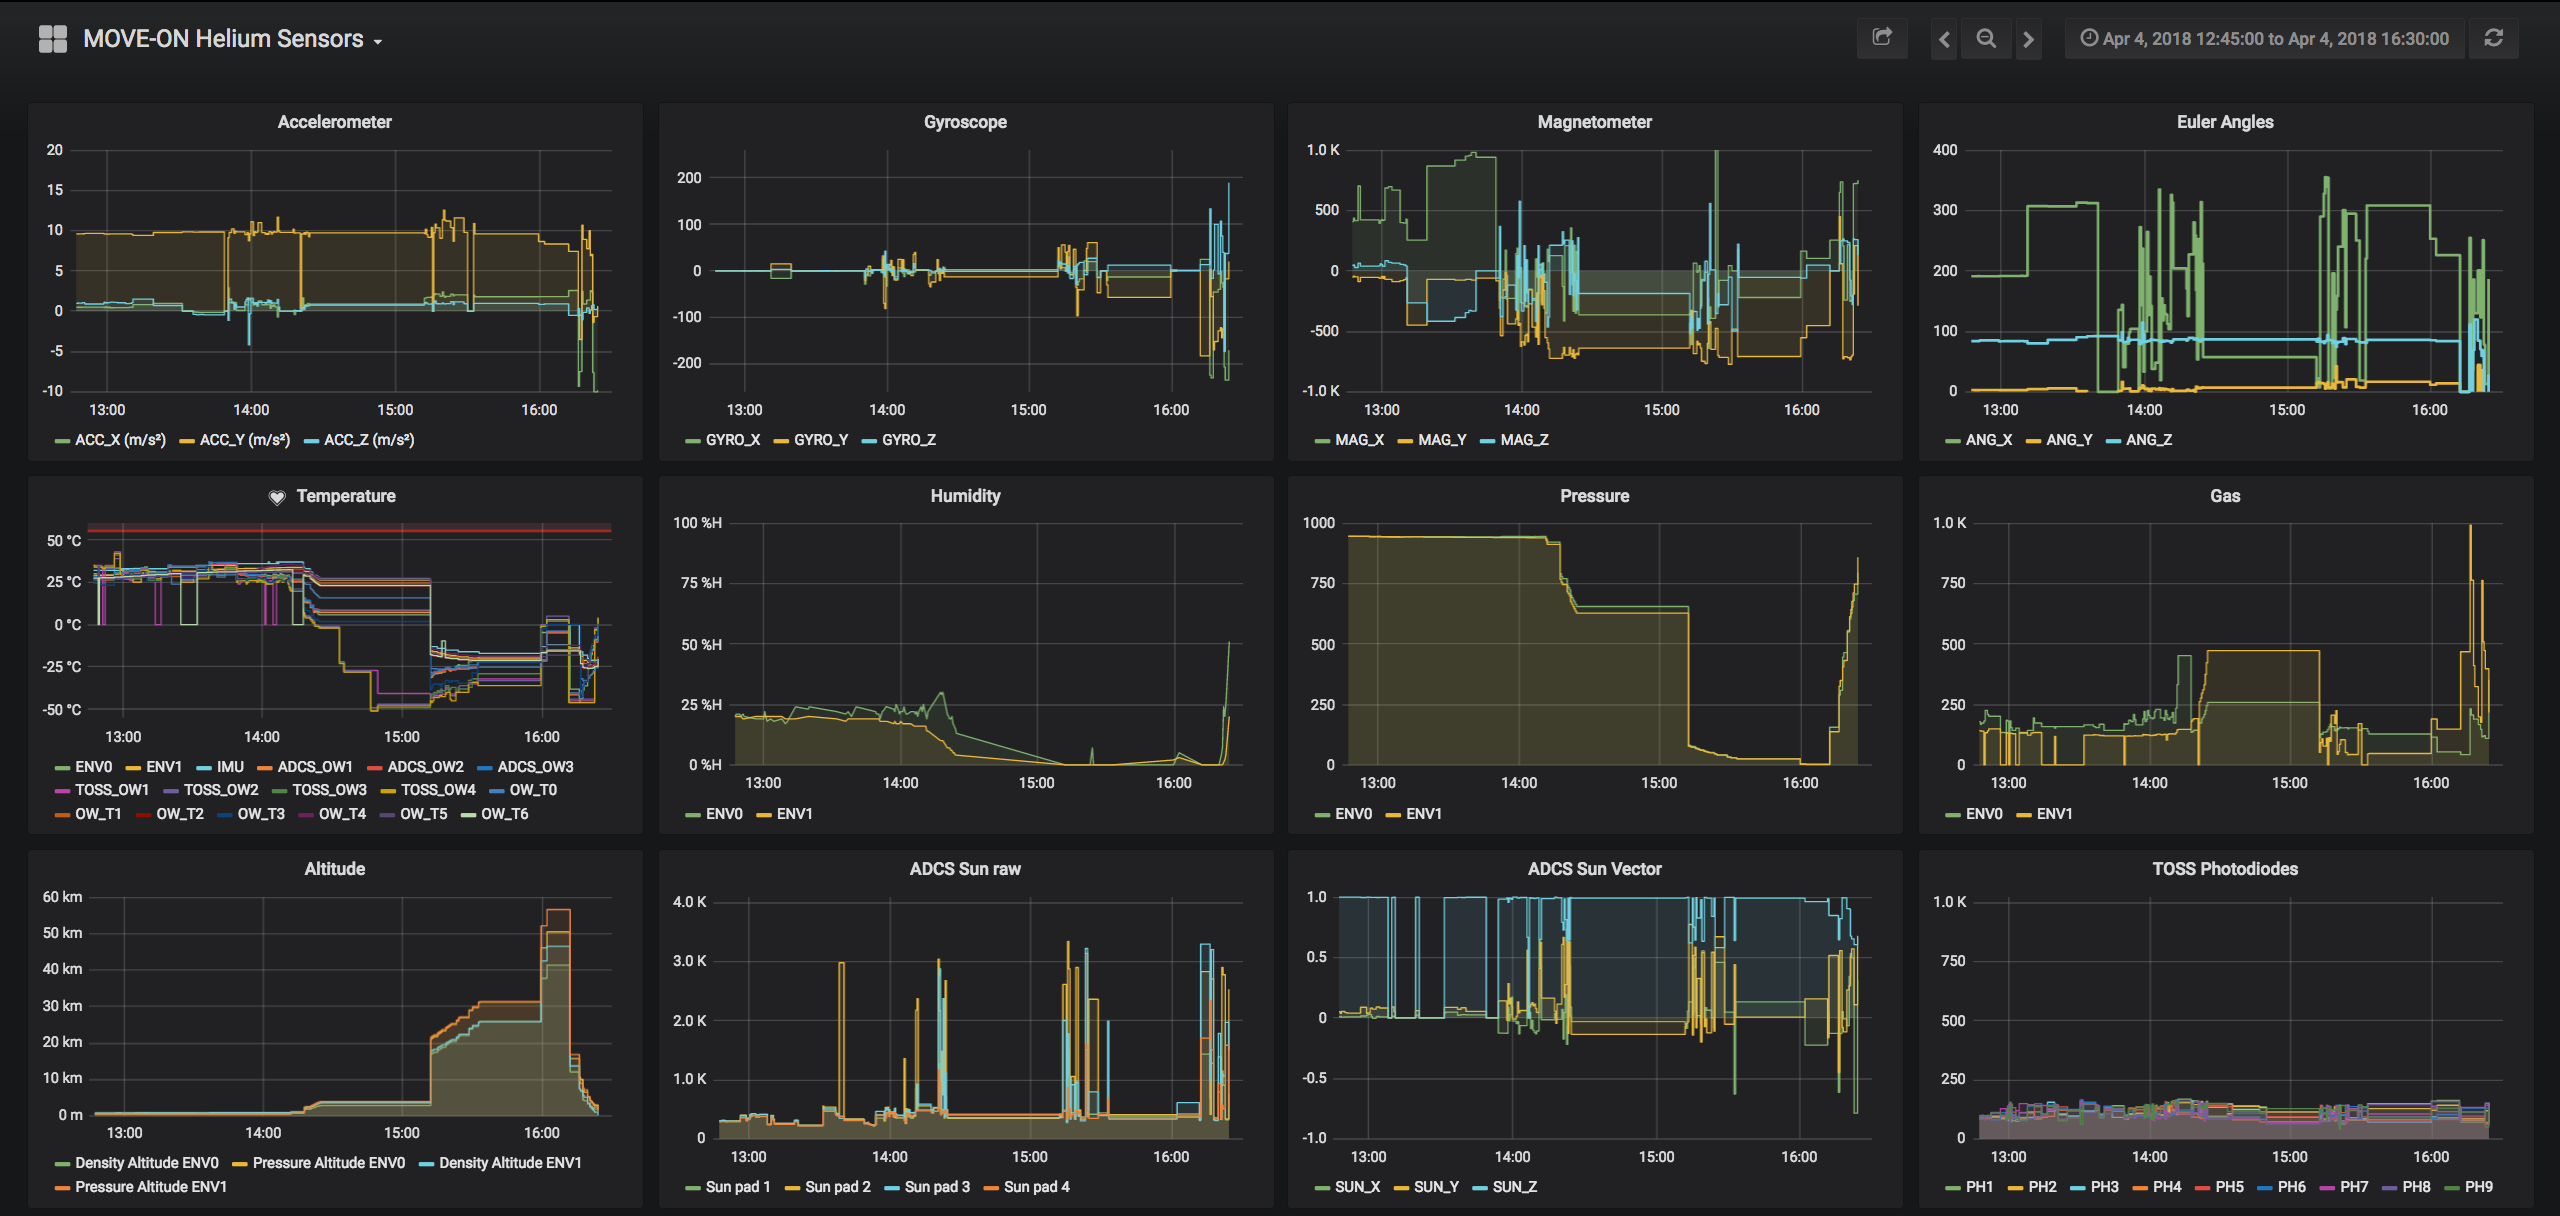
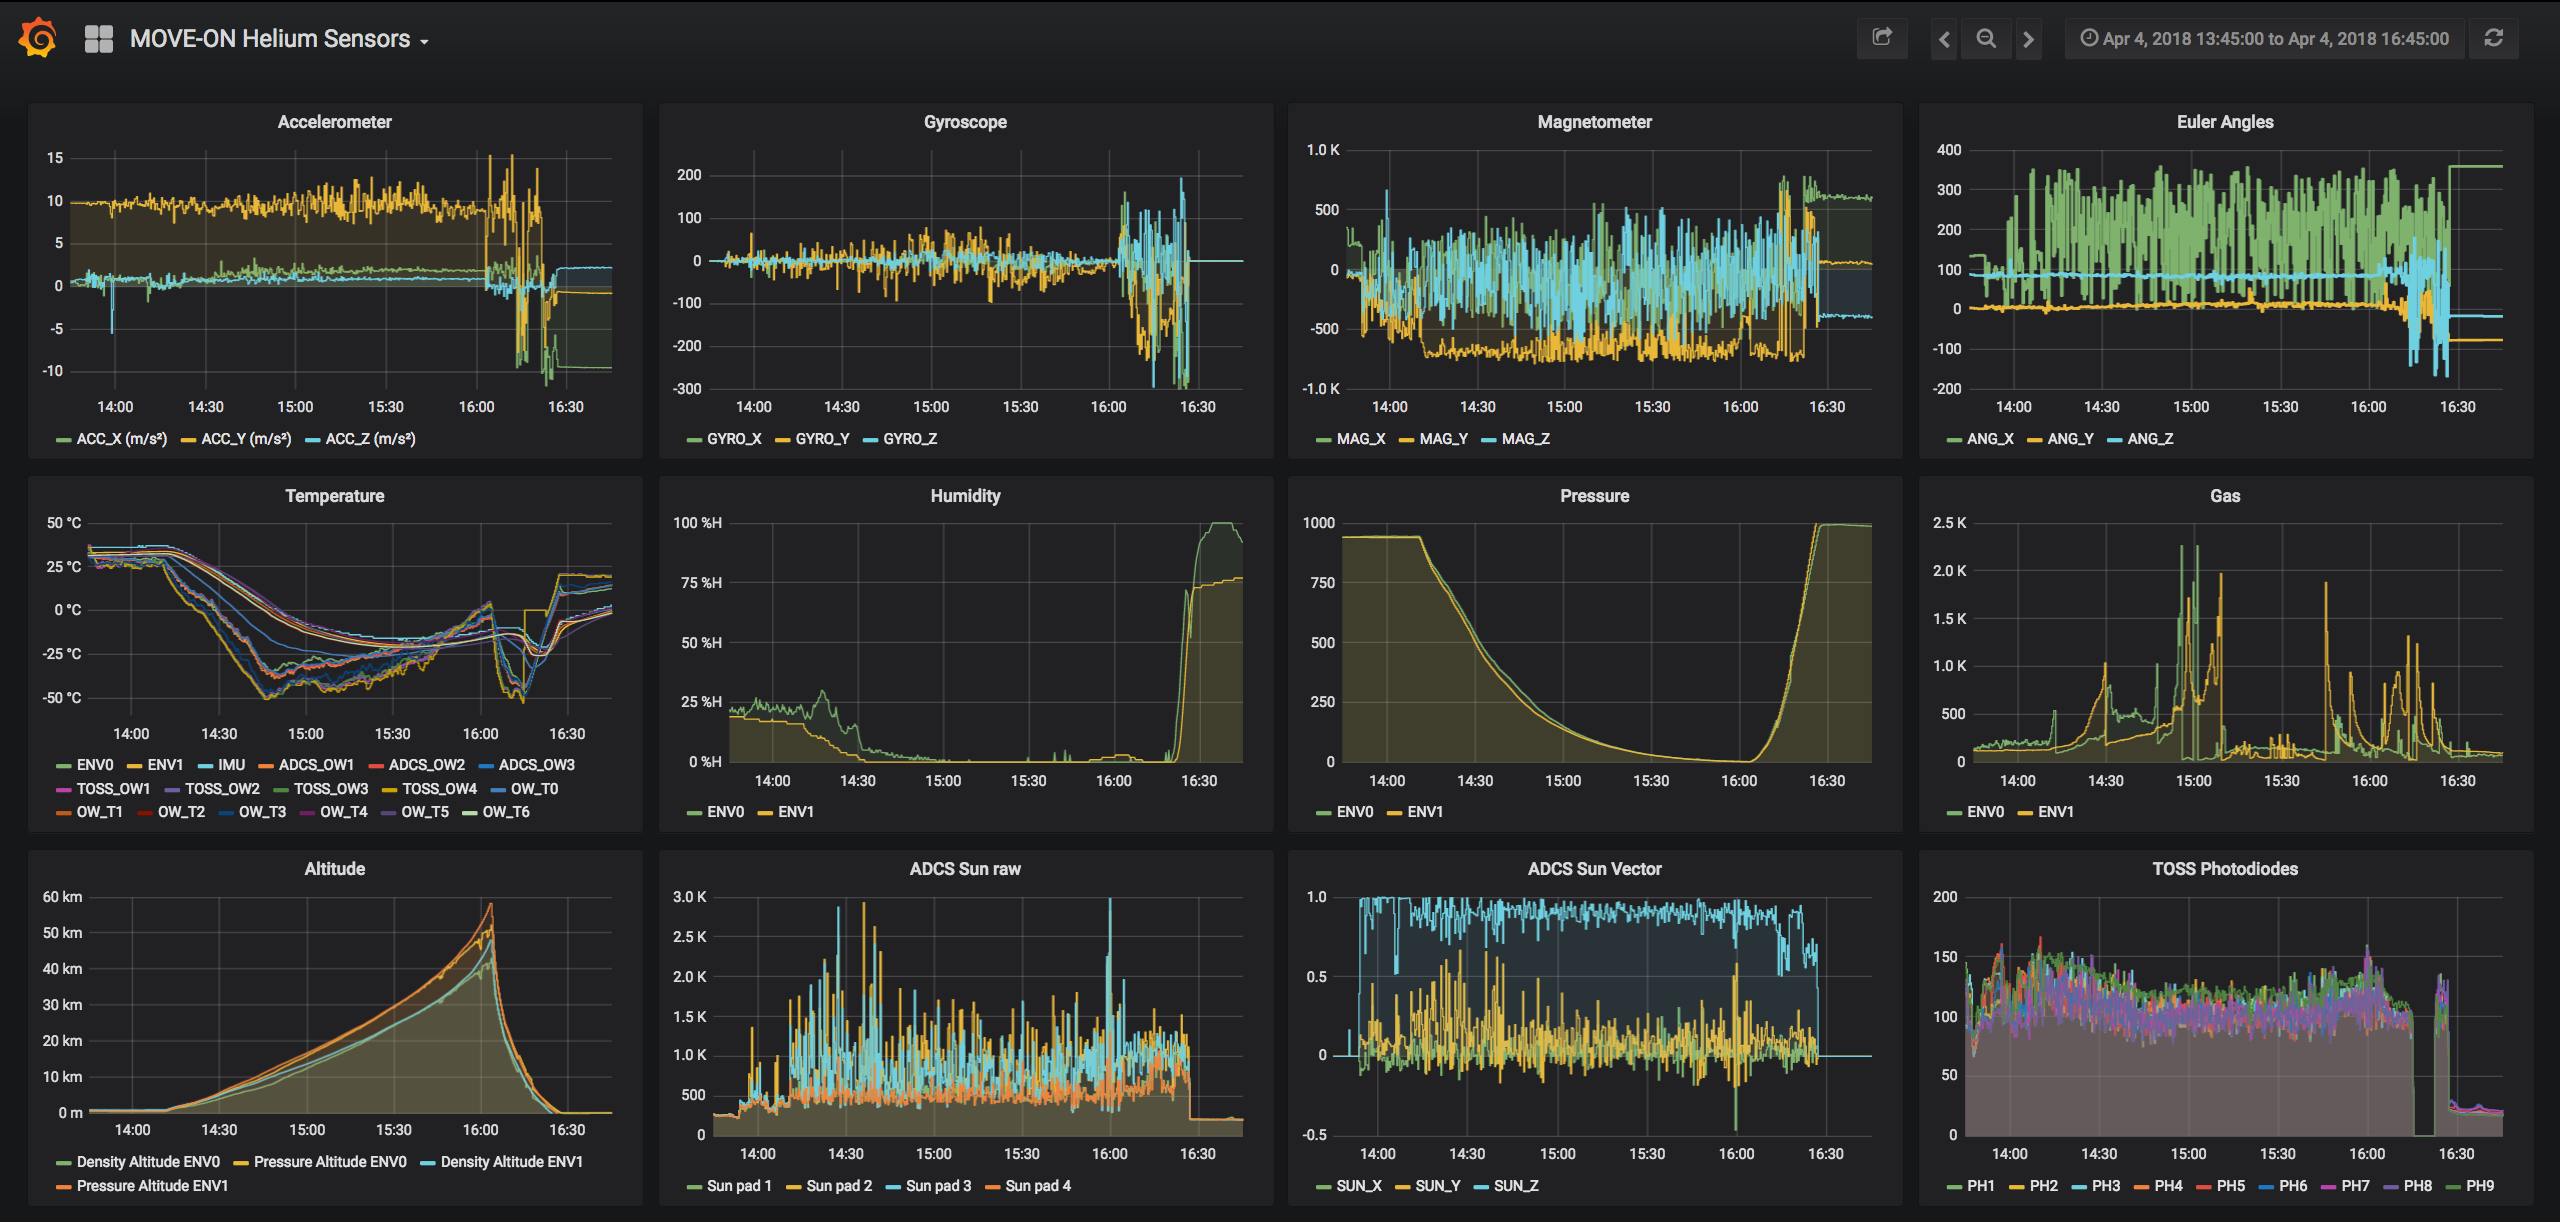
Update Grafana screenshot and reference it in readme

diff --git a/doc/system_documentation.md b/doc/system_documentation.md
@@ -11,7 +11,7 @@ Members of the Sensor team are:
 * [System Architecture](https://gitlab.lrz.de/move-on/move-on_helium_sensors/blob/master/doc/system-architecture.png)
 * [Nucleo Firmware](https://gitlab.lrz.de/move-on/move-on_helium_sensors/tree/master/src)
 * [Hardware Schematics](https://gitlab.lrz.de/move-on/move-on_helium_sensors/tree/master/hardware)
-* [Live data visualization](https://move.frcy.org) (User: `moveon`, Password: `noevom`)
+* [Live data visualization](https://move.frcy.org)
 
 
 ## Mission Overview (MOVEON-GENERAL)
@@ -327,6 +327,7 @@ Concluding this status report the sensors team acknowledges potential for improv
 * [DS18B20 Temperature](https://datasheets.maximintegrated.com/en/ds/DS18B20.pdf)
 * [MOVE-II ADCS SidePanel](https://redmine.move2space.de/projects/move2/wiki/Sidepanel_401)
 * [Open Log Datalogger](https://www.sparkfun.com/products/13712)
+
 #### Source Code
 * [MOVE-ON Helium Sensors](https://gitlab.lrz.de/move-on/move-on_helium_sensors/)
 * [MOVE-II ADCS](https://gitlab.lrz.de/move-ii/adcs_software)

diff --git a/README.md b/README.md
@@ -1,7 +1,11 @@
 # MOVE-ON Helium Sensors
+Sensors subsystem for the MOVE-ON Helium high-altitude balloon mission.
+
+A detailed system description can be found in ![the system documentation](doc/system_documentation.md).
+
+![Grafana dashboard](doc/grafana-screenshot.png)
 
 ## Interfaces
-
 ### Micro USB
 The output from Micro USB can be read with the following command (MacOS):
 ```
@@ -9,9 +13,7 @@ picocom -b 115200 /dev/tty.usbmodem1453
 ```
 (`usbmodem1453` needs to be adjusted on your system)
 
-
 ## Setup
-
 ### Requirements
 - GNU Arm Embedded Toolchain
 - mbed-cli
